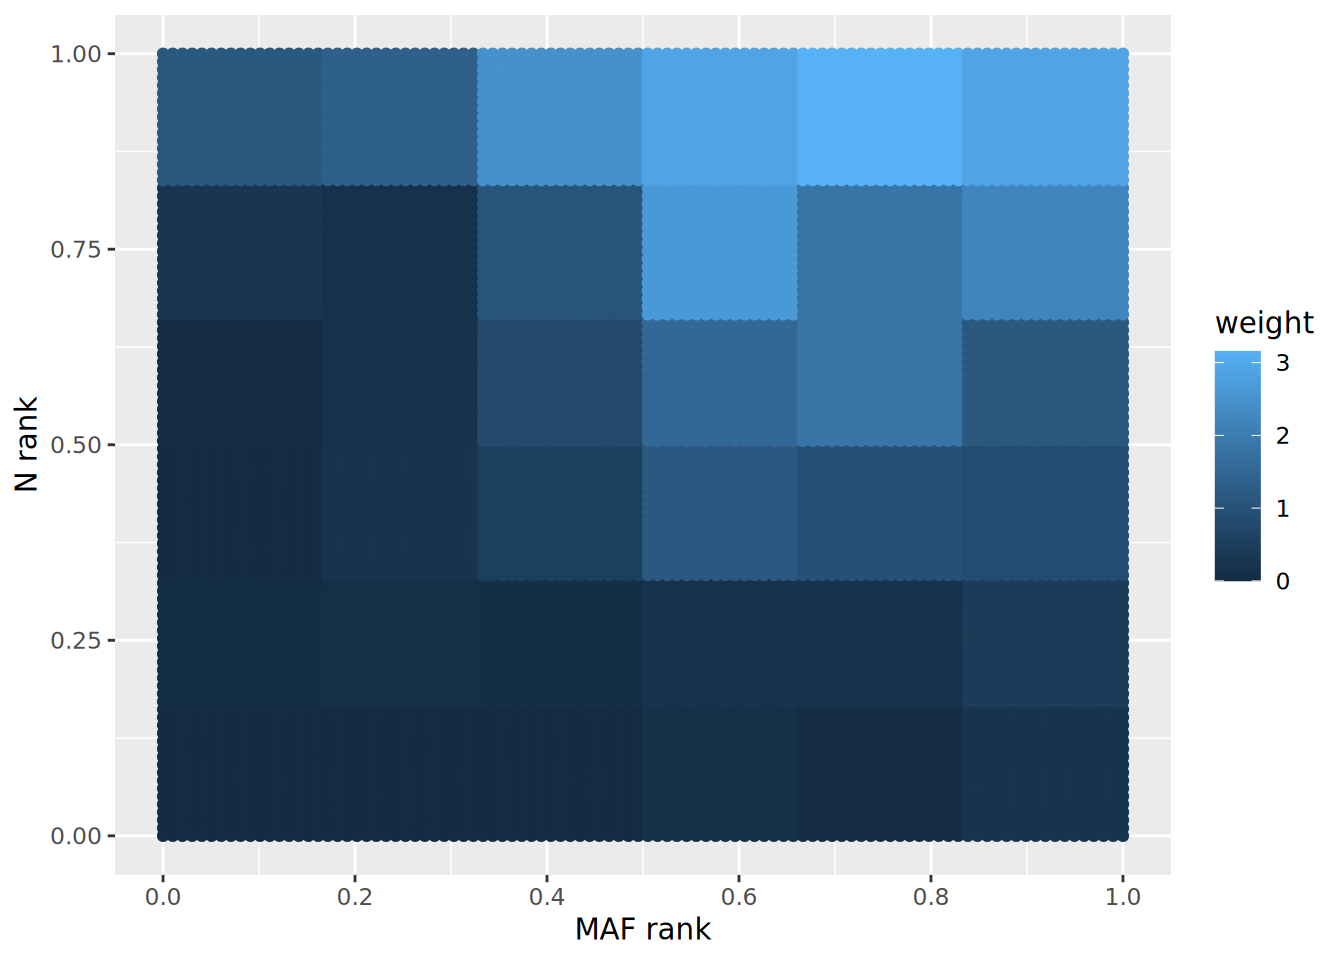
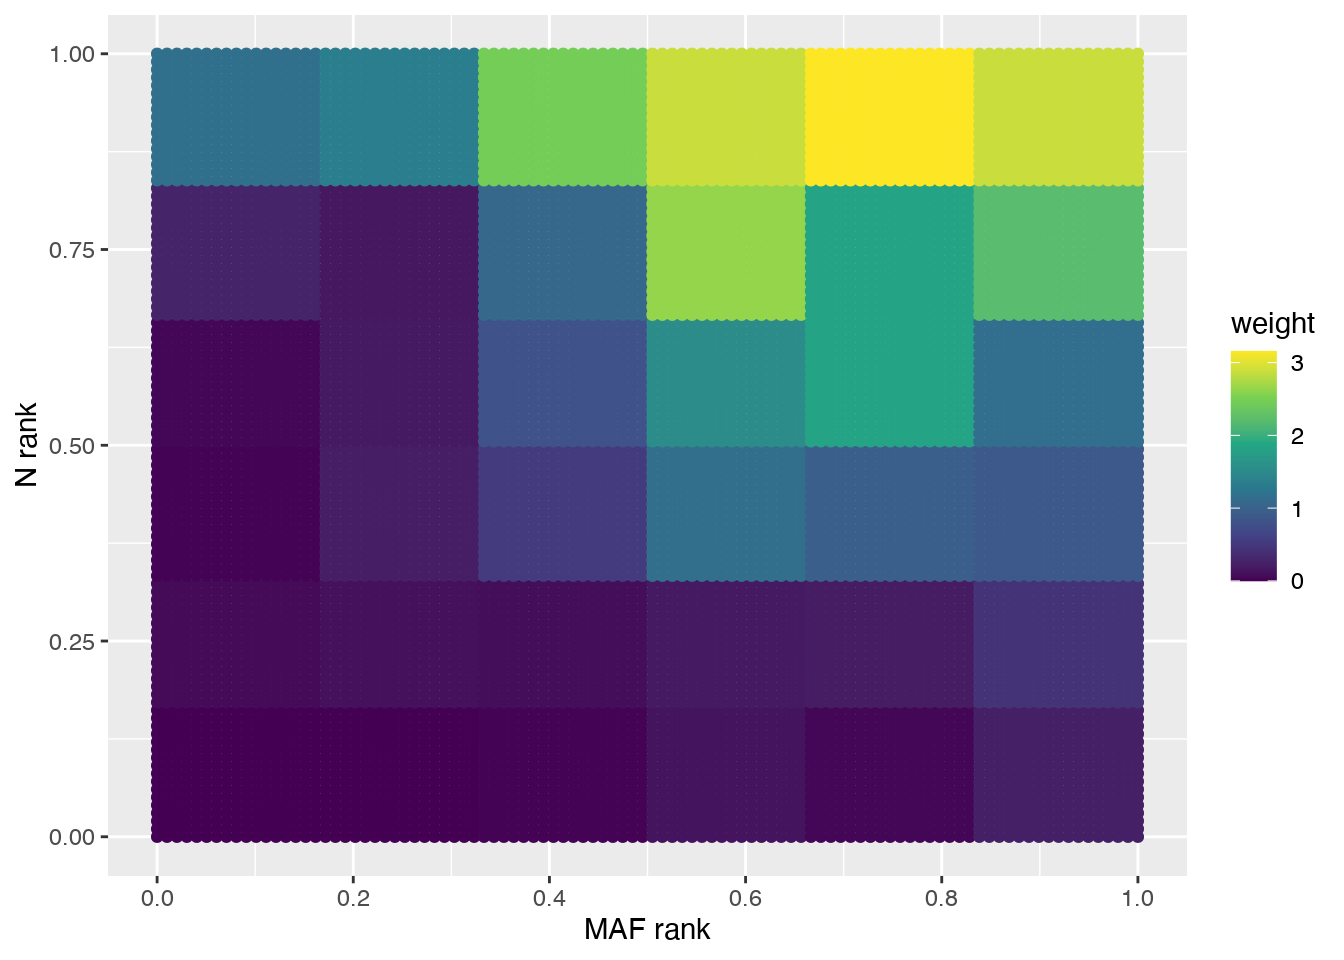
plot smooth weights

diff --git a/boca_leek/20230524_plot_smooth_weight.html b/boca_leek/20230524_plot_smooth_weight.html
@@ -2,7 +2,7 @@
 <html xmlns="http://www.w3.org/1999/xhtml" lang="en" xml:lang="en"><head>
 
 <meta charset="utf-8">
-<meta name="generator" content="quarto-1.2.269">
+<meta name="generator" content="quarto-1.2.475">
 
 <meta name="viewport" content="width=device-width, initial-scale=1.0, user-scalable=yes">
 
@@ -130,8 +130,8 @@ code span.wa { color: #60a0b0; font-weight: bold; font-style: italic; } /* Warni
 <span id="cb1-4"><a href="#cb1-4" aria-hidden="true" tabindex="-1"></a><span class="fu">library</span>(here)</span>
 <span id="cb1-5"><a href="#cb1-5" aria-hidden="true" tabindex="-1"></a><span class="fu">library</span>(purrr)</span>
 <span id="cb1-6"><a href="#cb1-6" aria-hidden="true" tabindex="-1"></a></span>
-<span id="cb1-7"><a href="#cb1-7" aria-hidden="true" tabindex="-1"></a><span class="co">#devtools::load_all("/Users/default/Google Drive/currentDocumants/research/2022_IHW-Forest/Code/IHW")</span></span>
-<span id="cb1-8"><a href="#cb1-8" aria-hidden="true" tabindex="-1"></a>devtools<span class="sc">::</span><span class="fu">load_all</span>(<span class="st">"../../IHW"</span>)</span>
+<span id="cb1-7"><a href="#cb1-7" aria-hidden="true" tabindex="-1"></a>devtools<span class="sc">::</span><span class="fu">load_all</span>(<span class="st">"/Users/default/Google Drive/currentDocumants/research/2022_IHW-Forest/Code/IHW"</span>)</span>
+<span id="cb1-8"><a href="#cb1-8" aria-hidden="true" tabindex="-1"></a><span class="co">#devtools::load_all("../../IHW")</span></span>
 <span id="cb1-9"><a href="#cb1-9" aria-hidden="true" tabindex="-1"></a><span class="co">#devtools::load_all("../IHWForestPaper")</span></span>
 <span id="cb1-10"><a href="#cb1-10" aria-hidden="true" tabindex="-1"></a></span>
 <span id="cb1-11"><a href="#cb1-11" aria-hidden="true" tabindex="-1"></a><span class="fu">options</span>(<span class="at">bitmapType =</span><span class="st">"cairo"</span>)</span></code><button title="Copy to Clipboard" class="code-copy-button"><i class="bi"></i></button></pre></div>
@@ -229,7 +229,8 @@ code span.wa { color: #60a0b0; font-weight: bold; font-style: italic; } /* Warni
 <div class="cell">
 <div class="sourceCode cell-code" id="cb13"><pre class="sourceCode r code-with-copy"><code class="sourceCode r"><span id="cb13-1"><a href="#cb13-1" aria-hidden="true" tabindex="-1"></a><span class="fu">plot_weights_quantile_2d</span>(ihw_quantiles) <span class="sc">+</span></span>
 <span id="cb13-2"><a href="#cb13-2" aria-hidden="true" tabindex="-1"></a>  <span class="fu">xlab</span>(<span class="st">"MAF rank"</span>) <span class="sc">+</span></span>
-<span id="cb13-3"><a href="#cb13-3" aria-hidden="true" tabindex="-1"></a>  <span class="fu">ylab</span>(<span class="st">"N rank"</span>)</span></code><button title="Copy to Clipboard" class="code-copy-button"><i class="bi"></i></button></pre></div>
+<span id="cb13-3"><a href="#cb13-3" aria-hidden="true" tabindex="-1"></a>  <span class="fu">ylab</span>(<span class="st">"N rank"</span>) <span class="sc">+</span></span>
+<span id="cb13-4"><a href="#cb13-4" aria-hidden="true" tabindex="-1"></a>  <span class="fu">scale_color_viridis_c</span>()<span class="co">#+  trans = "log"</span></span></code><button title="Copy to Clipboard" class="code-copy-button"><i class="bi"></i></button></pre></div>
 <div class="cell-output-display">
 <p><img src="20230524_plot_smooth_weight_files/figure-html/unnamed-chunk-11-1.png" class="img-fluid" width="672"></p>
 </div>
@@ -237,7 +238,7 @@ code span.wa { color: #60a0b0; font-weight: bold; font-style: italic; } /* Warni
 </section>
 <section id="tree" class="level2">
 <h2 class="anchored" data-anchor-id="tree">Tree</h2>
-<div class="cell" data-hash="20230524_plot_smooth_weight_cache/html/unnamed-chunk-12_18ab9256f2c3965671951d2c7bf178e4">
+<div class="cell" data-hash="20230524_plot_smooth_weight_cache/html/ihw_tree_4b1aa438cd4d5427c94aad446938327a">
 <div class="sourceCode cell-code" id="cb14"><pre class="sourceCode r code-with-copy"><code class="sourceCode r"><span id="cb14-1"><a href="#cb14-1" aria-hidden="true" tabindex="-1"></a><span class="cf">if</span>(<span class="fu">file.exists</span>(<span class="st">"data_plot_weights/ihw_tree.Rds"</span>)){</span>
 <span id="cb14-2"><a href="#cb14-2" aria-hidden="true" tabindex="-1"></a>  ihw_tree <span class="ot">&lt;-</span> <span class="fu">readRDS</span>(<span class="st">"data_plot_weights/ihw_tree.Rds"</span>)</span>
 <span id="cb14-3"><a href="#cb14-3" aria-hidden="true" tabindex="-1"></a>} <span class="cf">else</span>{</span>
@@ -266,15 +267,16 @@ code span.wa { color: #60a0b0; font-weight: bold; font-style: italic; } /* Warni
 <span id="cb16-2"><a href="#cb16-2" aria-hidden="true" tabindex="-1"></a>  <span class="fu">geom_point</span>() <span class="sc">+</span></span>
 <span id="cb16-3"><a href="#cb16-3" aria-hidden="true" tabindex="-1"></a>  <span class="co">#scale_colour_gradientn(colours = myPalette(100)) +</span></span>
 <span id="cb16-4"><a href="#cb16-4" aria-hidden="true" tabindex="-1"></a>  <span class="fu">xlab</span>(<span class="st">"MAF rank"</span>) <span class="sc">+</span></span>
-<span id="cb16-5"><a href="#cb16-5" aria-hidden="true" tabindex="-1"></a>  <span class="fu">ylab</span>(<span class="st">"N rank"</span>)</span></code><button title="Copy to Clipboard" class="code-copy-button"><i class="bi"></i></button></pre></div>
+<span id="cb16-5"><a href="#cb16-5" aria-hidden="true" tabindex="-1"></a>  <span class="fu">ylab</span>(<span class="st">"N rank"</span>) <span class="sc">+</span></span>
+<span id="cb16-6"><a href="#cb16-6" aria-hidden="true" tabindex="-1"></a>  <span class="fu">scale_color_viridis_c</span>()</span></code><button title="Copy to Clipboard" class="code-copy-button"><i class="bi"></i></button></pre></div>
 <div class="cell-output-display">
-<p><img src="20230524_plot_smooth_weight_files/figure-html/unnamed-chunk-14-1.png" class="img-fluid" width="672"></p>
+<p><img src="20230524_plot_smooth_weight_files/figure-html/unnamed-chunk-13-1.png" class="img-fluid" width="672"></p>
 </div>
 </div>
 </section>
 <section id="forest" class="level2">
 <h2 class="anchored" data-anchor-id="forest">Forest</h2>
-<div class="cell" data-hash="20230524_plot_smooth_weight_cache/html/unnamed-chunk-15_7a670e59b1ce1f4f1a6089875806e037">
+<div class="cell" data-hash="20230524_plot_smooth_weight_cache/html/ihw_forest_557e7167c764a00ff802d7b19806a529">
 <div class="sourceCode cell-code" id="cb17"><pre class="sourceCode r code-with-copy"><code class="sourceCode r"><span id="cb17-1"><a href="#cb17-1" aria-hidden="true" tabindex="-1"></a><span class="cf">if</span>(<span class="fu">file.exists</span>(<span class="st">"data_plot_weights/ihw_forest.Rds"</span>)){</span>
 <span id="cb17-2"><a href="#cb17-2" aria-hidden="true" tabindex="-1"></a>  ihw_forest <span class="ot">&lt;-</span> <span class="fu">readRDS</span>(<span class="st">"data_plot_weights/ihw_forest.Rds"</span>)</span>
 <span id="cb17-3"><a href="#cb17-3" aria-hidden="true" tabindex="-1"></a>} <span class="cf">else</span>{</span>
@@ -303,9 +305,10 @@ code span.wa { color: #60a0b0; font-weight: bold; font-style: italic; } /* Warni
 <span id="cb19-2"><a href="#cb19-2" aria-hidden="true" tabindex="-1"></a>  <span class="fu">geom_point</span>() <span class="sc">+</span></span>
 <span id="cb19-3"><a href="#cb19-3" aria-hidden="true" tabindex="-1"></a>  <span class="co">#scale_colour_gradientn(colours = myPalette(100)) +</span></span>
 <span id="cb19-4"><a href="#cb19-4" aria-hidden="true" tabindex="-1"></a>  <span class="fu">xlab</span>(<span class="st">"MAF rank"</span>) <span class="sc">+</span></span>
-<span id="cb19-5"><a href="#cb19-5" aria-hidden="true" tabindex="-1"></a>  <span class="fu">ylab</span>(<span class="st">"N rank"</span>)</span></code><button title="Copy to Clipboard" class="code-copy-button"><i class="bi"></i></button></pre></div>
+<span id="cb19-5"><a href="#cb19-5" aria-hidden="true" tabindex="-1"></a>  <span class="fu">ylab</span>(<span class="st">"N rank"</span>) <span class="sc">+</span></span>
+<span id="cb19-6"><a href="#cb19-6" aria-hidden="true" tabindex="-1"></a>  <span class="fu">scale_color_viridis_c</span>()</span></code><button title="Copy to Clipboard" class="code-copy-button"><i class="bi"></i></button></pre></div>
 <div class="cell-output-display">
-<p><img src="20230524_plot_smooth_weight_files/figure-html/unnamed-chunk-17-1.png" class="img-fluid" width="672"></p>
+<p><img src="20230524_plot_smooth_weight_files/figure-html/unnamed-chunk-15-1.png" class="img-fluid" width="672"></p>
 </div>
 </div>
 </section>
